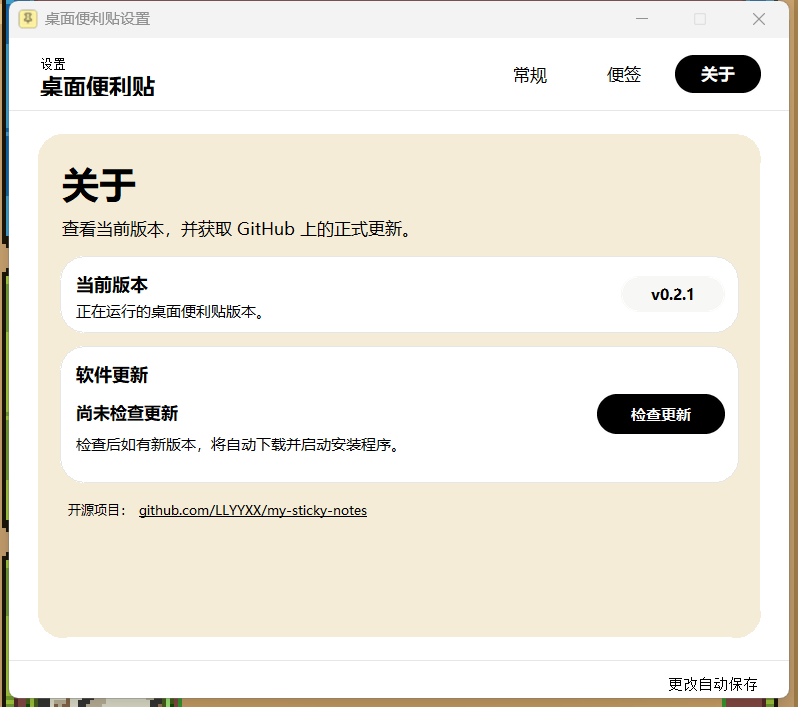
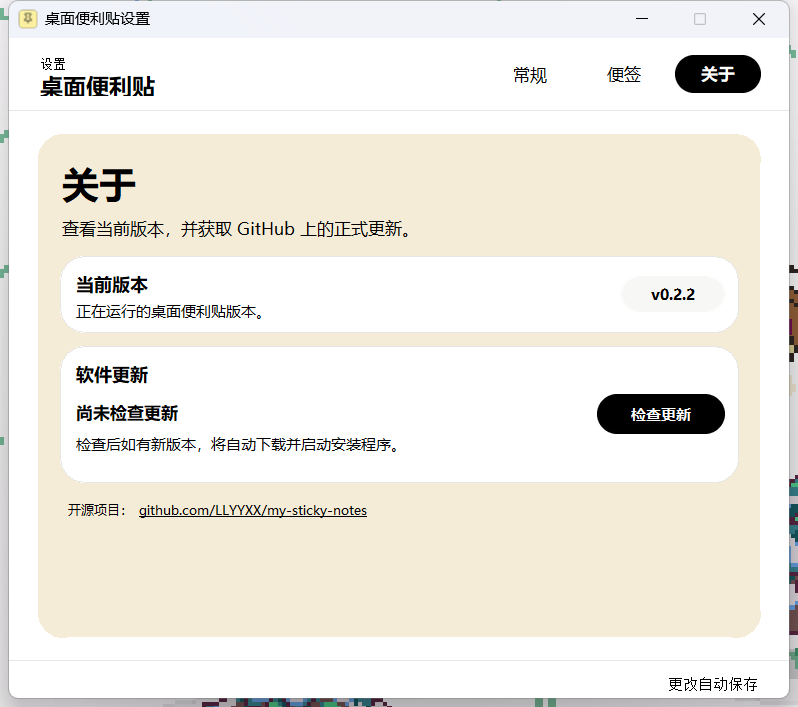
Release v0.2.2 update asset compatibility
GitHub normalizes spaces in uploaded release asset names to periods. Match equivalent safe installer names and compare normalized checksum entries so automatic updates can download and verify published installers.

diff --git a/sticky_notes/update_checker.py b/sticky_notes/update_checker.py
@@ -151,6 +151,15 @@ def _asset_from_json(value: object) -> ReleaseAsset | None:
     )
 
 
+def _normalized_asset_name(value: str) -> str:
+    """Match GitHub's punctuation-normalized release asset names safely."""
+    return re.sub(r"[\s._-]+", ".", value.strip()).casefold()
+
+
+def _installer_name(version: str) -> str:
+    return f"My Sticky Notes Setup {version}.exe"
+
+
 def _release_assets(
     payload: dict[str, Any], latest_version: str
 ) -> tuple[ReleaseAsset | None, ReleaseAsset | None]:
@@ -162,8 +171,15 @@ def _release_assets(
         asset = _asset_from_json(value)
         if asset is not None:
             assets.append(asset)
-    expected_installer = f"My Sticky Notes Setup {latest_version}.exe"
-    installer = next((asset for asset in assets if asset.name == expected_installer), None)
+    expected_installer = _normalized_asset_name(_installer_name(latest_version))
+    installer = next(
+        (
+            asset
+            for asset in assets
+            if _normalized_asset_name(asset.name) == expected_installer
+        ),
+        None,
+    )
     checksum = next((asset for asset in assets if asset.name == "SHA256SUMS.txt"), None)
     return installer, checksum
 
@@ -224,7 +240,11 @@ def _expected_checksum(payload: bytes, installer_name: str) -> str:
         if len(parts) != 2:
             continue
         digest, name = parts
-        if name.lstrip("*") == installer_name and _SHA256_PATTERN.fullmatch(digest):
+        if (
+            _normalized_asset_name(name.lstrip("*"))
+            == _normalized_asset_name(installer_name)
+            and _SHA256_PATTERN.fullmatch(digest)
+        ):
             return digest.casefold()
     raise UpdateCheckError("update_error_checksum")
 
@@ -264,7 +284,7 @@ def download_release_update(
         raise _map_request_error(exc) from exc
 
     target_dir = destination_dir or default_update_directory() / result.latest_version
-    target = target_dir / installer.name
+    target = target_dir / _installer_name(result.latest_version)
     partial = target.with_suffix(target.suffix + ".part")
     try:
         target_dir.mkdir(parents=True, exist_ok=True)

diff --git a/tests/test_update_checker.py b/tests/test_update_checker.py
@@ -44,9 +44,9 @@ def release_payload(version: str = "0.3.0") -> dict[str, object]:
         ),
         "assets": [
             {
-                "name": f"My Sticky Notes Setup {version}.exe",
+                "name": f"My.Sticky.Notes.Setup.{version}.exe",
                 "browser_download_url": (
-                    f"{base}/My%20Sticky%20Notes%20Setup%20{version}.exe"
+                    f"{base}/My.Sticky.Notes.Setup.{version}.exe"
                 ),
                 "size": 12,
             },
@@ -78,7 +78,7 @@ class UpdateCheckerTests(unittest.TestCase):
 
         self.assertTrue(result.update_available)
         self.assertEqual(result.latest_version, "0.3.0")
-        self.assertEqual(result.installer_asset.name, "My Sticky Notes Setup 0.3.0.exe")
+        self.assertEqual(result.installer_asset.name, "My.Sticky.Notes.Setup.0.3.0.exe")
         self.assertEqual(result.checksum_asset.name, "SHA256SUMS.txt")
         self.assertEqual(captured["timeout"], 8.0)
         self.assertEqual(request.get_header("User-agent"), "MyStickyNotes/0.2.0")
@@ -145,6 +145,10 @@ class UpdateCheckerTests(unittest.TestCase):
                 opener=download_opener,
             )
 
+            self.assertEqual(
+                downloaded.installer_path.name,
+                "My Sticky Notes Setup 0.3.0.exe",
+            )
             self.assertEqual(downloaded.installer_path.read_bytes(), installer_bytes)
 
     def test_checksum_mismatch_removes_partial_installer(self) -> None:

diff --git a/sticky_notes/__init__.py b/sticky_notes/__init__.py
@@ -2,4 +2,4 @@
 
 __all__ = ["__version__"]
 
-__version__ = "0.2.1"
+__version__ = "0.2.2"

diff --git a/CHANGELOG.md b/CHANGELOG.md
@@ -2,6 +2,11 @@
 
 本项目遵循语义化版本号。
 
+## 0.2.2 - 2026-07-05
+
+- 兼容 GitHub 自动将 Release 安装包文件名中的空格改为点号的规则，确保检查更新能识别正式安装包。
+- 下载后仍保存为易读的本地安装包名称，并使用 Release 内 `SHA256SUMS.txt` 的原始名称进行等价校验。
+
 ## 0.2.1 - 2026-07-05
 
 - 修复启用 DPI 感知后，`780×660` 设置窗口的便签页与关于页底部卡片被裁切的问题。